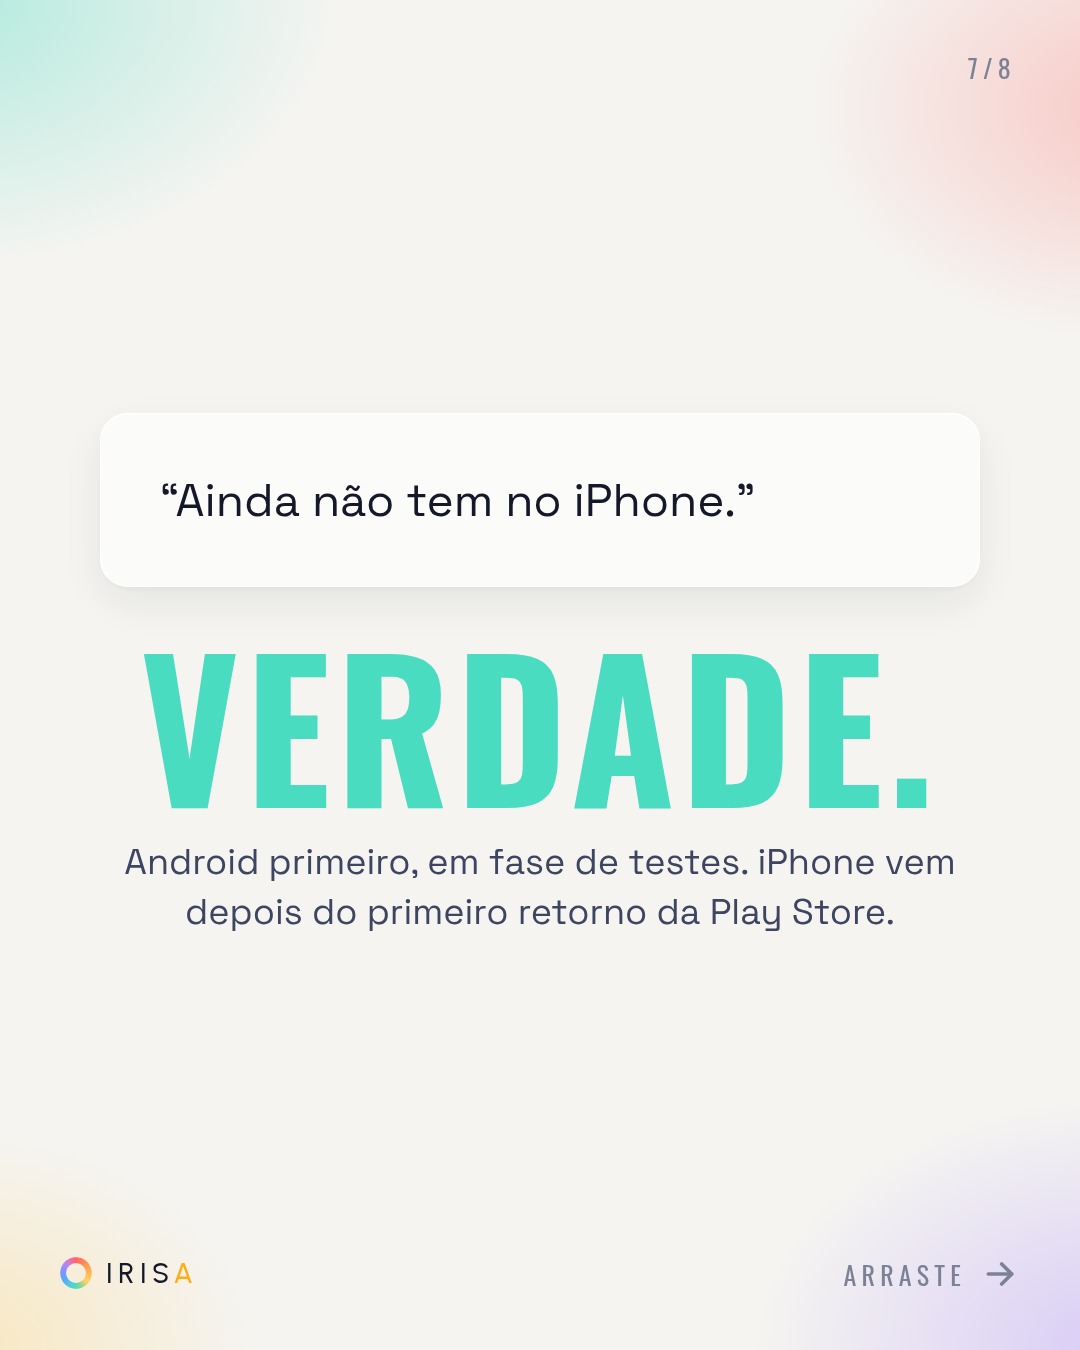
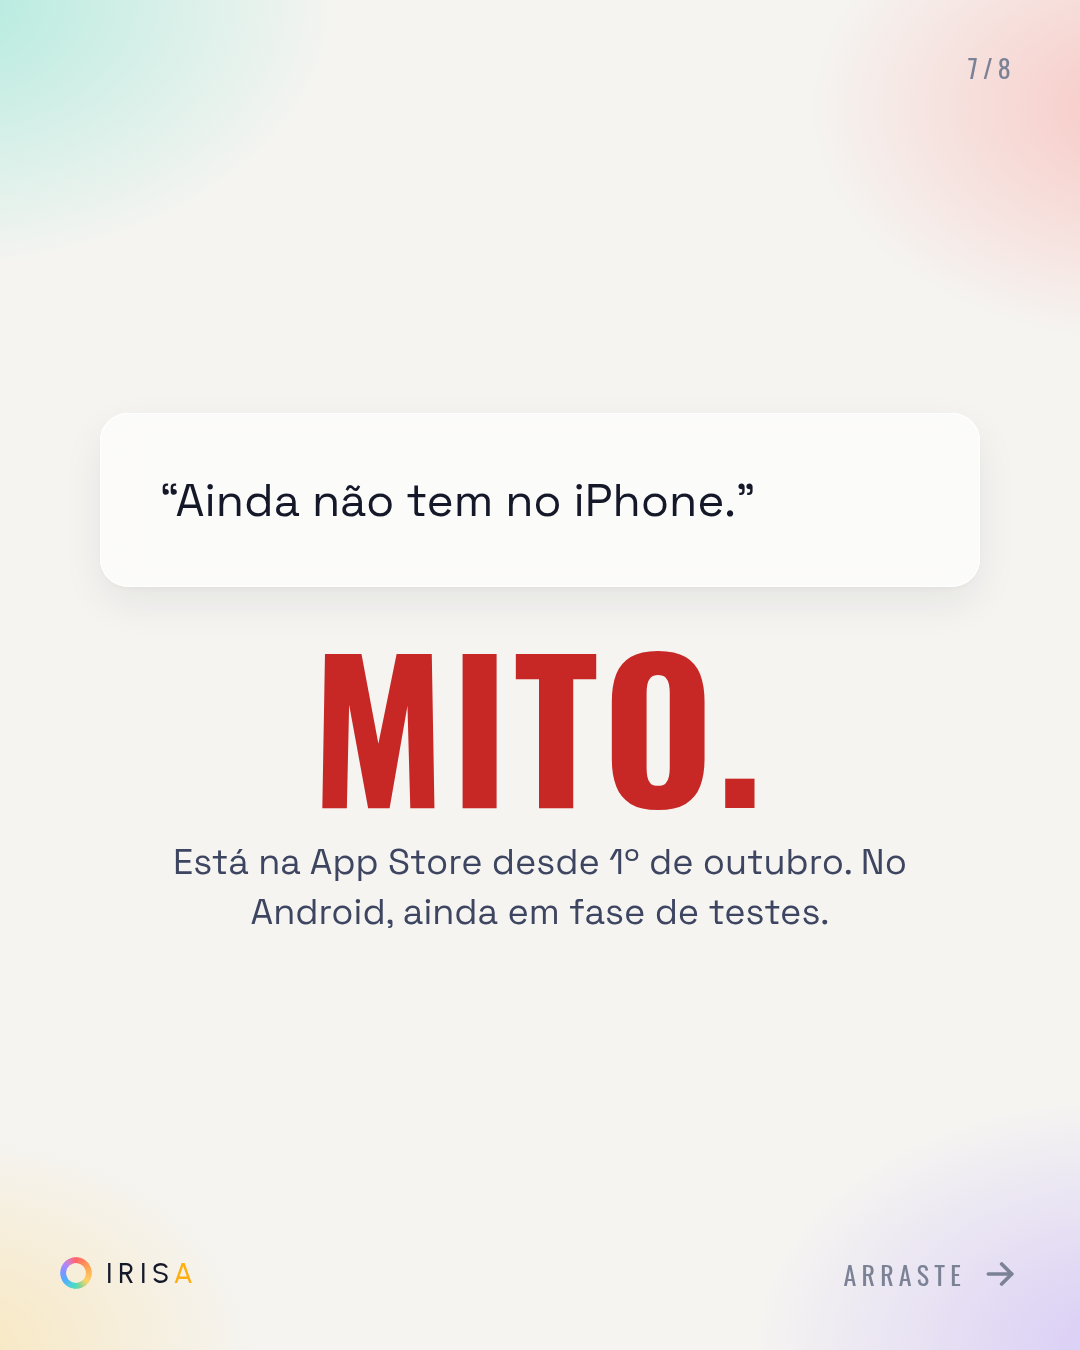
Fila e peças adequadas ao lançamento no iPhone
- O feed de hoje (carrossel-4) sai do ar: 01/10 foi o reels de lançamento
  do iOS, postado à mão. Ele entra na fila como publicado, com a legenda.
- "em fase de testes · Android" virou "no iPhone · Android em fase de
  testes" em todas as peças pendentes e legendas — a linha antiga ficou
  falsa no dia em que a Apple aprovou.
- carrossel-6, lâmina 7: "Ainda não tem no iPhone" era Verdade, virou
  Mito, com o texto refeito e o slam em coralInk (a regra da skill).
- Calendário remontado de 02 a 18/10 com o xadrez fechado: tipo e cor da
  capa alternam em todos os dias. O 10/10 fica vago de propósito — é o que
  faz o 11/10, que é data fixa, cair no lado escuro.
- Regra da skill atualizada: o fecho e o estado do app nas lojas.

Dívida anotada: de 15 a 18/10 sobram quatro reels claros em sequência,
por falta de peça estática. Precisa de dois posts novos para fechar.

Claude-Session: https://claude.ai/code/session_015WqfV53Y8EeDbiaJmrZRa2

Changed region(s): [[0.1222, 0.4667, 0.8861, 0.6844]]

diff --git a/docs/carrossel-6.html b/docs/carrossel-6.html
@@ -532,11 +532,11 @@ span.mark::before{content:"";position:absolute;left:50%;top:50%;width:8px;height
 </section>
 <section class="sl" style="justify-content:center;gap:0"><div class="bg"></div><div class="num">7/8</div><div class="brand"><svg class="mark" viewBox="0 0 100 100"><use href="#radarmin"></use></svg><span>Iris<b>a</b></span></div><div class="swipe">arraste <svg viewBox="0 0 24 24" fill="none" stroke="currentColor" stroke-width="2.2" stroke-linecap="round" stroke-linejoin="round"><path d="M5 12h14"/><path d="m13 6 6 6-6 6"/></svg></div>
 <div class="qcard"><p style="font-size:46px">“Ainda não tem no iPhone.”</p></div>
- <p class="slam c" style="font-size:190px;color:var(--turq);margin-top:40px">Verdade.</p>
- <p class="body c" style="max-width:860px;margin-top:20px;font-size:36px">Android primeiro, em fase de testes. iPhone vem depois do primeiro retorno da Play Store.</p>
+ <p class="slam c" style="font-size:190px;color:var(--coralInk);margin-top:40px">Mito.</p>
+ <p class="body c" style="max-width:860px;margin-top:20px;font-size:36px">Está na App Store desde 1º de outubro. No Android, ainda em fase de testes.</p>
 </section>
 <section class="sl" style="justify-content:center;gap:0"><div class="bg"></div><div class="num">8/8</div><div class="brand"><svg class="mark" viewBox="0 0 100 100"><use href="#radarmin"></use></svg><span>Iris<b>a</b></span></div>
 <p class="big c" style="font-size:96px;margin:0 50px 50px"><span style="font-weight:300">Ficou alguma</span><br><span class="rainbow">dúvida?</span></p>
- <p class="body c" style="max-width:860px">Manda nos comentários. A próxima rodada de mitos sai daqui.</p><span class="pill" style="background:var(--coral);font-size:38px;padding:24px 46px;margin-top:60px;box-shadow:0 20px 60px -20px rgba(244,115,111,.8)">O link está na bio</span><div class="small c" style="margin-top:40px;color:var(--dim)">em fase de testes · Android</div>
+ <p class="body c" style="max-width:860px">Manda nos comentários. A próxima rodada de mitos sai daqui.</p><span class="pill" style="background:var(--coral);font-size:38px;padding:24px 46px;margin-top:60px;box-shadow:0 20px 60px -20px rgba(244,115,111,.8)">O link está na bio</span><div class="small c" style="margin-top:40px;color:var(--dim)">no iPhone · Android em fase de testes</div>
 </section>
 </body></html>

diff --git a/docs/carrossel-4.html b/docs/carrossel-4.html
@@ -533,6 +533,6 @@ span.mark::before{content:"";position:absolute;left:50%;top:50%;width:8px;height
 </section>
 <section class="sl" style="justify-content:center;gap:0"><div class="bg"></div><div class="num">8/8</div><div class="brand"><svg class="mark" viewBox="0 0 100 100"><use href="#radarmin"></use></svg><span>Iris<b>a</b></span></div>
 <p class="big c" style="font-size:92px;margin:0 50px 50px"><span style="font-weight:300">Salva.</span><br>Compartilha com<br><span class="rainbow">quem precisa.</span></p>
- <p class="body c" style="max-width:860px">Tudo isso, com endereço e telefone, fica na aba Apoio. Conferimos os contatos a cada seis meses.</p><span class="pill" style="background:var(--coral);font-size:38px;padding:24px 46px;margin-top:60px;box-shadow:0 20px 60px -20px rgba(244,115,111,.8)">O link está na bio</span><div class="small c" style="margin-top:40px;color:var(--dim)">em fase de testes · Android</div>
+ <p class="body c" style="max-width:860px">Tudo isso, com endereço e telefone, fica na aba Apoio. Conferimos os contatos a cada seis meses.</p><span class="pill" style="background:var(--coral);font-size:38px;padding:24px 46px;margin-top:60px;box-shadow:0 20px 60px -20px rgba(244,115,111,.8)">O link está na bio</span><div class="small c" style="margin-top:40px;color:var(--dim)">no iPhone · Android em fase de testes</div>
 </section>
 </body></html>

diff --git a/docs/carrossel-5.html b/docs/carrossel-5.html
@@ -528,6 +528,6 @@ span.mark::before{content:"";position:absolute;left:50%;top:50%;width:8px;height
 </section>
 <section class="sl" style="justify-content:center;gap:0"><div class="bg"></div><div class="num">7/7</div><div class="brand"><svg class="mark" viewBox="0 0 100 100"><use href="#radarmin"></use></svg><span>Iris<b>a</b></span></div>
 <p class="big c" style="font-size:100px;margin:0 50px 50px"><span style="font-weight:300">Avalia o lugar.</span><br><span class="rainbow">Registra a rua.</span></p>
- <p class="body c" style="max-width:860px">Os dois juntos fazem o mapa. Um sem o outro é metade da história.</p><span class="pill" style="background:var(--coral);font-size:38px;padding:24px 46px;margin-top:60px;box-shadow:0 20px 60px -20px rgba(244,115,111,.8)">O link está na bio</span><div class="small c" style="margin-top:40px;color:var(--dim)">em fase de testes · Android</div>
+ <p class="body c" style="max-width:860px">Os dois juntos fazem o mapa. Um sem o outro é metade da história.</p><span class="pill" style="background:var(--coral);font-size:38px;padding:24px 46px;margin-top:60px;box-shadow:0 20px 60px -20px rgba(244,115,111,.8)">O link está na bio</span><div class="small c" style="margin-top:40px;color:var(--dim)">no iPhone · Android em fase de testes</div>
 </section>
 </body></html>

diff --git a/docs/reels-9.html b/docs/reels-9.html
@@ -89,7 +89,7 @@ body{display:flex;align-items:center;justify-content:center;height:100vh;font-fa
   </div>
   <div class="scene" id="s2">
     <h1 class="disp c" id="t2" style="font-size:94px"><span class="w" style="font-weight:300">Comenta</span> <span class="w" style="font-weight:300">a sua.</span><br><span class="w rainbow">A próxima sai daqui.</span></h1>
-    <p class="body c" id="b2" style="margin-top:60px">Mapa de lugares onde a gente é bem-vinde, feito por nós. Em fase de testes, Android.</p>
+    <p class="body c" id="b2" style="margin-top:60px">Mapa de lugares onde a gente é bem-vinde, feito por nós. Já no iPhone. Android em fase de testes.</p>
     <div class="handle" id="handle" style="margin-top:70px"><svg class="mark" style="width:78px;height:78px" viewBox="0 0 100 100"><use href="#radarmark"></use></svg><span>@appirisa</span></div>
   </div>
   <div class="brand" id="brand"><svg class="mark" viewBox="0 0 100 100"><use href="#radarmin"></use></svg><span>Iris<b>a</b></span></div>

diff --git a/docs/reels-4.html b/docs/reels-4.html
@@ -102,7 +102,7 @@ body{display:flex;align-items:center;justify-content:center;height:100vh;font-fa
     <p class="body c" id="b3b" style="margin-top:60px">Onde e a que hora são opcionais. Você conta o que conseguir contar.</p>
   </div>
   <div class="scene" id="s4">
-    <div class="small c" id="e4">em fase de testes · Android</div>
+    <div class="small c" id="e4">no iPhone · Android em fase de testes</div>
     <h1 class="disp c" id="t4" style="font-size:130px;margin-top:30px"><span class="w" style="font-weight:300">Se aconteceu,</span><br><span class="w rainbow">registra.</span></h1>
     <p class="disp c" id="t4b" style="font-size:84px;font-weight:300;margin-top:40px"><span class="w">Por</span> <span class="w">quem</span> <span class="w">vem</span> <span class="w">depois.</span></p>
     <p class="body c" id="b4" style="margin-top:60px">Anônimo de verdade. Não é promessa: é como o banco foi construído.</p>

diff --git a/docs/reels-5.html b/docs/reels-5.html
@@ -114,7 +114,7 @@ body{display:flex;align-items:center;justify-content:center;height:100vh;font-fa
     <h1 class="disp c" id="t4b" style="font-size:110px"><span class="w" style="font-weight:300">Cada bairro</span><br><span class="w" style="color:var(--turq)">ganha uma ficha.</span></h1>
   </div>
   <div class="scene" id="s5">
-    <div class="small c" id="e5">em fase de testes · Android</div>
+    <div class="small c" id="e5">no iPhone · Android em fase de testes</div>
     <h1 class="disp c" id="t5" style="font-size:116px;margin-top:30px"><span class="w" style="font-weight:300">Comece</span><br><span class="w rainbow">pelo seu bairro.</span></h1>
     <p class="body c" id="b5" style="margin-top:60px">Um lugar irisado ou um relato. Um minuto. E a ficha deixa de ser zero.</p>
     <span class="pill" id="cta" style="background:var(--coral);margin-top:70px;">O link está na bio</span>

diff --git a/docs/carrossel-9.html b/docs/carrossel-9.html
@@ -80,6 +80,6 @@ body{font-family:var(--body);color:var(--ink);display:flex;flex-direction:column
 <section class="sl"><div class="bg"></div><div class="num">6/6</div><div class="brand"><svg class="mark" viewBox="0 0 100 100"><use href="#radarmin"></use></svg><span>Iris<b>a</b></span></div><p class="big c" style="font-size:100px;margin:0 0 50px"><span class="lt">Qual hotel te</span><br><span class="rainbow">tratou como casal?</span></p>
 <p class="body c" style="max-width:860px">Conta nos comentários e salva para quem vai viajar. Hotel e restaurante são a maior parte do mapa.</p>
 <span class="btn" style="margin-top:60px">O link está na bio</span>
-<div class="eyebrow c" style="margin-top:40px">em fase de testes · Android</div></section>
+<div class="eyebrow c" style="margin-top:40px">no iPhone · Android em fase de testes</div></section>
 
 </body></html>

diff --git a/docs/carrossel-8.html b/docs/carrossel-8.html
@@ -82,6 +82,6 @@ body{font-family:var(--body);color:var(--ink);display:flex;flex-direction:column
 <section class="sl"><div class="bg"></div><div class="num">7/7</div><div class="brand"><svg class="mark" viewBox="0 0 100 100"><use href="#radarmin"></use></svg><span>Iris<b>a</b></span></div><p class="big c" style="font-size:100px;margin:0 0 50px"><span class="lt">Qual lugar você</span><br><span class="rainbow">irisaria hoje?</span></p>
 <p class="body c" style="max-width:860px">Conta nos comentários o primeiro lugar onde você se sentiu bem-vinde depois de sair do armário.</p>
 <span class="btn" style="margin-top:60px">O link está na bio</span>
-<div class="eyebrow c" style="margin-top:40px">em fase de testes · Android</div></section>
+<div class="eyebrow c" style="margin-top:40px">no iPhone · Android em fase de testes</div></section>
 
 </body></html>

diff --git a/docs/carrossel-7.html b/docs/carrossel-7.html
@@ -234,7 +234,7 @@ span.mark::before{content:"";position:absolute;left:50%;top:50%;width:8px;height
   <p class="big c" style="font-size:88px;margin:0 50px 50px"><span style="font-weight:300">Já testou a ficha</span><br><span class="rainbow">do seu bairro?</span></p>
   <p class="body c">Abre o app, vai no bairro onde você mora e comenta o que apareceu.</p>
   <span class="pill" style="background:var(--coral);font-size:38px;padding:24px 46px;margin-top:60px;box-shadow:0 20px 60px -20px rgba(244,115,111,.8)">O link está na bio</span>
-  <div class="small c" style="margin-top:40px;color:var(--dim)">em fase de testes · Android</div>
+  <div class="small c" style="margin-top:40px;color:var(--dim)">no iPhone · Android em fase de testes</div>
 </section>
 
 </body></html>

diff --git a/docs/reels-3.html b/docs/reels-3.html
@@ -118,7 +118,7 @@ body{display:flex;align-items:center;justify-content:center;height:100vh;font-fa
   </div>
   <!-- 5 fecho -->
   <div class="scene" id="s5">
-    <div class="small c" id="e5">em fase de testes · Android</div>
+    <div class="small c" id="e5">no iPhone · Android em fase de testes</div>
     <h1 class="disp c" id="t5" style="font-size:124px;margin-top:30px"><span class="w" style="font-weight:300">Registrar</span><br><span class="w rainbow">leva um minuto.</span></h1>
     <p class="body c" id="b5" style="margin-top:60px">Sem nome. Sem perfil. Sem rastro. E a rua avisa a próxima pessoa.</p>
     <span class="pill" id="cta" style="background:var(--coral);margin-top:70px;">O link está na bio</span>

diff --git a/.claude/skills/irisa-posts/SKILL.md b/.claude/skills/irisa-posts/SKILL.md
@@ -18,6 +18,7 @@ App brasileiro para a comunidade LGBTQIA+. Duas coisas, e a regra que as separa:
 - Anonimato por construção: sem autor na base pública, sem página de perfil, ponto deslocado ~100 m em relato de hoje/ontem, só e-mail para entrar, excluir conta apaga tudo.
 - Botão de emergência: 190, 192, 100, 188. Aba Apoio com serviços por cidade.
 - Sete cidades com lugares no mapa: Curitiba, Recife, João Pessoa, Joinville, Natal, São Paulo, Rio. Em fase de testes, Android primeiro.
+- **Na App Store desde 01/10/2026**; no Android ainda em teste fechado. Nenhum texto novo pode dizer que só existe no Android.
 - Link: bit.ly/appirisa (vai na bio e no adesivo de story, nunca escrito na arte). Instagram @appirisa.
 
 ## 2. Tom de voz
@@ -89,7 +90,7 @@ Padrões de lâmina (escolher um por lâmina, nunca misturar dois):
 - **Riscado**: `.strike` para negar uma ideia ("~~região tranquila~~").
 - **Nota**: `.nring` (anel conic com 4.7 no centro branco) + `.badge-big` "Acolhedor".
 - **Cidades**: `.pills` com `.ct` (cápsulas em cor cheia, texto night).
-- **Fecho**: pergunta para comentário + `.btn` coral "O link está na bio" + eyebrow "em fase de testes · Android".
+- **Fecho**: pergunta para comentário + `.btn` coral "O link está na bio" + eyebrow **"no iPhone · Android em fase de testes"** (desde 01/10/2026 o app está na App Store; o Android segue em teste fechado — a linha antiga, "em fase de testes · Android", ficou falsa).
 
 Story (1080×1920, `.sl.story`): mesma gramática, mais ar, marca centralizada no rodapé e uma **área tracejada** (`.zone`) onde entra o adesivo do Instagram (quiz, enquete, caixa de pergunta, link). O link nunca é escrito na arte.
 
@@ -184,6 +185,6 @@ Para quem não segue a conta, conteúdo que explica o app não segura 3 segundos
 - [ ] Lâmina escura usa `.sl.night` com os valores fechados da seção 6a — nenhum escuro novo.
 - [ ] Rodapé com `#radarmin`, nunca `#radarmark` (que só vale de 50 px para cima).
 - [ ] Sem link escrito na arte; sem número de testadores; sem emoji na arte. Exceção única: glifo de interface (`✔`, `⚠`, `➤`) **dentro** de um print simulado do app, porque ali ele é parte da tela, não enfeite da lâmina.
-- [ ] Fecho com pergunta + "O link está na bio" + "em fase de testes · Android".
+- [ ] Fecho com pergunta + "O link está na bio" + "no iPhone · Android em fase de testes".
 - [ ] Arco-íris na ordem coral → orange → yellow → turq → blue → lilac.
 - [ ] Título ≤ 2 linhas, corpo ≤ 3 linhas, nada cortado nas bordas.
